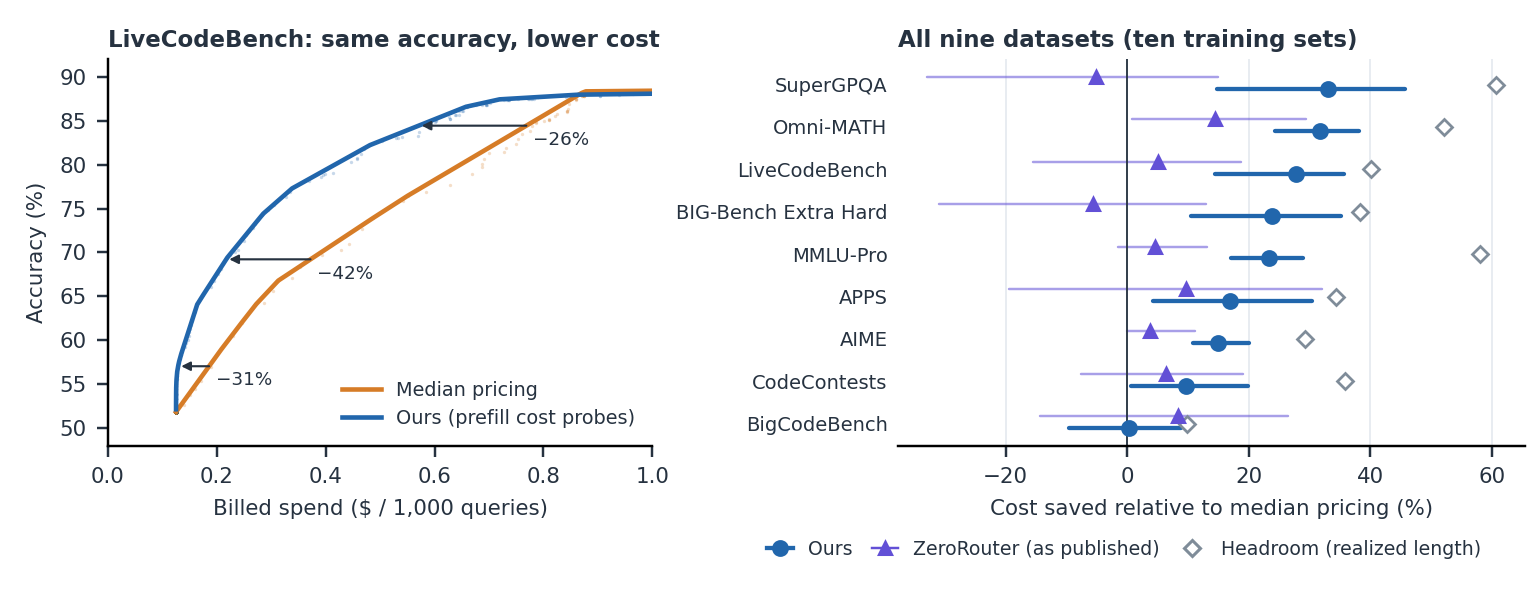
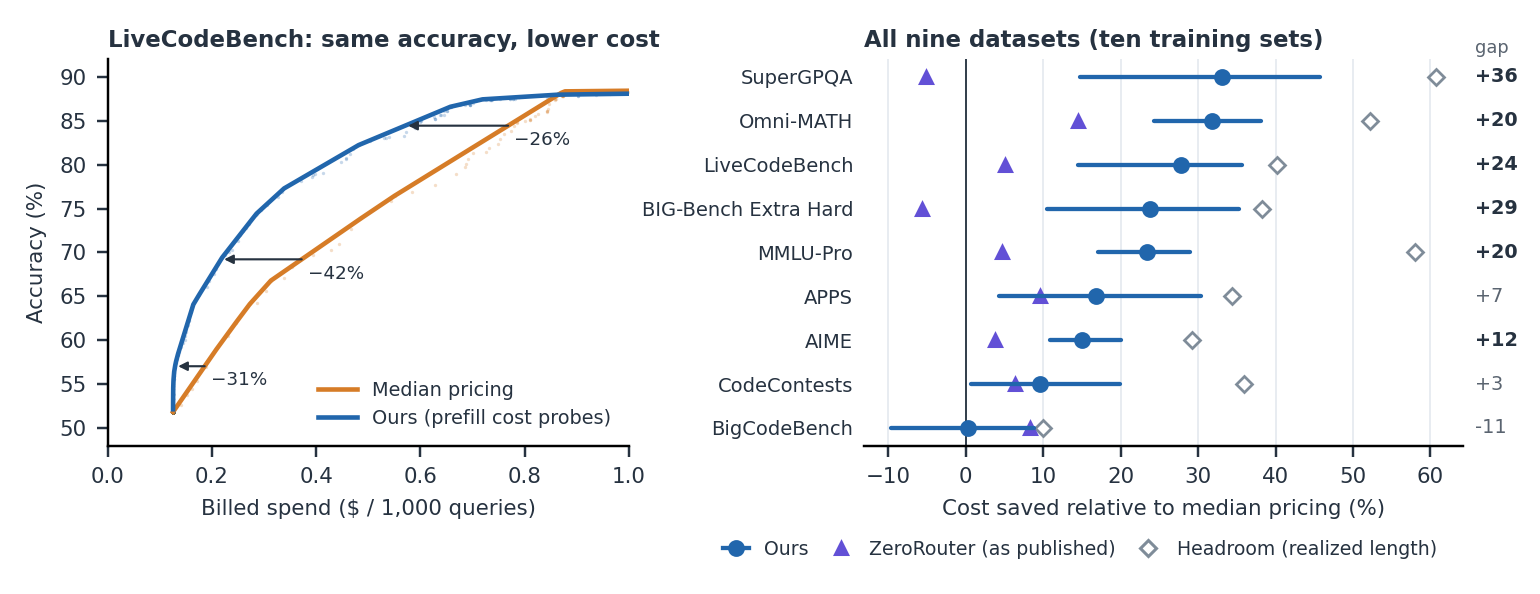
Headline draft: ZeroRouter as points only, paired ours-minus-ZeroRouter gap column (bold where the interval excludes zero)

diff --git a/paper_tmlr/make_headline_fig.py b/paper_tmlr/make_headline_fig.py
@@ -20,7 +20,7 @@ NAMES = {"LCB": "LiveCodeBench", "Omni": "Omni-MATH", "MMLU-Pro": "MMLU-Pro", "A
          "CC": "CodeContests", "SuperGPQA": "SuperGPQA", "BBEH": "BIG-Bench Extra Hard"}
 plt.rcParams.update({"font.family": "DejaVu Sans", "font.size": 7, "text.color": INK, "axes.labelcolor": INK, "xtick.color": INK,
                      "ytick.color": INK, "pdf.fonttype": 42, "ps.fonttype": 42})
-fig, (a1, a2) = plt.subplots(1, 2, figsize=(7.0, 2.7), gridspec_kw=dict(width_ratios=[1, 1.15], wspace=.42, left=.07, right=.99, bottom=.25, top=.9))
+fig, (a1, a2) = plt.subplots(1, 2, figsize=(7.0, 2.7), gridspec_kw=dict(width_ratios=[1, 1.15], wspace=.42, left=.07, right=.95, bottom=.25, top=.9))
 
 # left: frontiers
 for arm, col, lab in (("median", MED, "Median pricing"), ("learned", OURS, "Ours (prefill cost probes)")):
@@ -39,20 +39,23 @@ a1.legend(frameon=False, fontsize=6.3, loc="lower right")
 order = sorted(SUM, key=lambda p: SUM[p]["ours"]["vs_median"][0])
 for y, p in enumerate(order):
     r = SUM[p]; o, z, h = r["ours"]["vs_median"], r["zr_pub"]["vs_median"], r["oracle"]["vs_median"]
-    a2.plot([z[1], z[2]], [y + .18] * 2, color=ZR, lw=.8, alpha=.55, solid_capstyle="round")
-    a2.plot(z[0], y + .18, "^", color=ZR, ms=4, zorder=4)
-    a2.plot([o[1], o[2]], [y - .1] * 2, color=OURS, lw=1.4, solid_capstyle="round")
-    a2.plot(o[0], y - .1, "o", color=OURS, ms=4.5, zorder=5)
+    a2.plot(z[0], y, "^", color=ZR, ms=4, zorder=4)
+    a2.plot([o[1], o[2]], [y] * 2, color=OURS, lw=1.4, solid_capstyle="round", zorder=4)
+    a2.plot(o[0], y, "o", color=OURS, ms=4.5, zorder=5)
+    g = r["zr_pub"]["ours_vs_it"]; sig = g[1] > 0                     # paired: ours minus ZeroRouter, pooled test resamples
+    a2.text(1.02, y, f"{g[0]:+.0f}", transform=a2.get_yaxis_transform(), ha="right" if False else "left", va="center", fontsize=6.3,
+            color=INK if sig else MUTED, fontweight="bold" if sig else "normal")
     a2.plot(h[0], y, "D", mfc="white", mec=HEAD, mew=.9, ms=3.8, zorder=3)
 a2.axvline(0, color=INK, lw=.6); a2.set_yticks(range(len(order))); a2.set_yticklabels([NAMES[p] for p in order], fontsize=6.4)
 a2.set_xlabel("Cost saved relative to median pricing (%)"); a2.grid(axis="x", color=GRID, lw=.6); a2.set_axisbelow(True)
 a2.set_title("All nine datasets (ten training sets)", loc="left", fontsize=7.5, fontweight="bold", pad=4)
 a2.tick_params(axis="y", length=0)
+a2.text(1.02, len(order) - .55, "gap", transform=a2.get_yaxis_transform(), ha="left", va="bottom", fontsize=5.8, color=MUTED, linespacing=.95)
 for ax in (a1, a2):
     for sp in ("top", "right"):
         ax.spines[sp].set_visible(False)
 a2.spines["left"].set_visible(False)
-hs = [plt.Line2D([], [], color=OURS, marker="o", ms=4.5, lw=1.4), plt.Line2D([], [], color=ZR, marker="^", ms=4, lw=.8),
+hs = [plt.Line2D([], [], color=OURS, marker="o", ms=4.5, lw=1.4), plt.Line2D([], [], color=ZR, marker="^", ms=4, lw=0),
       plt.Line2D([], [], color=HEAD, marker="D", mfc="white", ms=3.8, lw=0)]
 a2.legend(hs, ["Ours", "ZeroRouter (as published)", "Headroom (realized length)"], frameon=False, fontsize=6.2, loc="upper center",
           bbox_to_anchor=(.36, -.2), ncol=3, handlelength=1.4, columnspacing=1.0)
